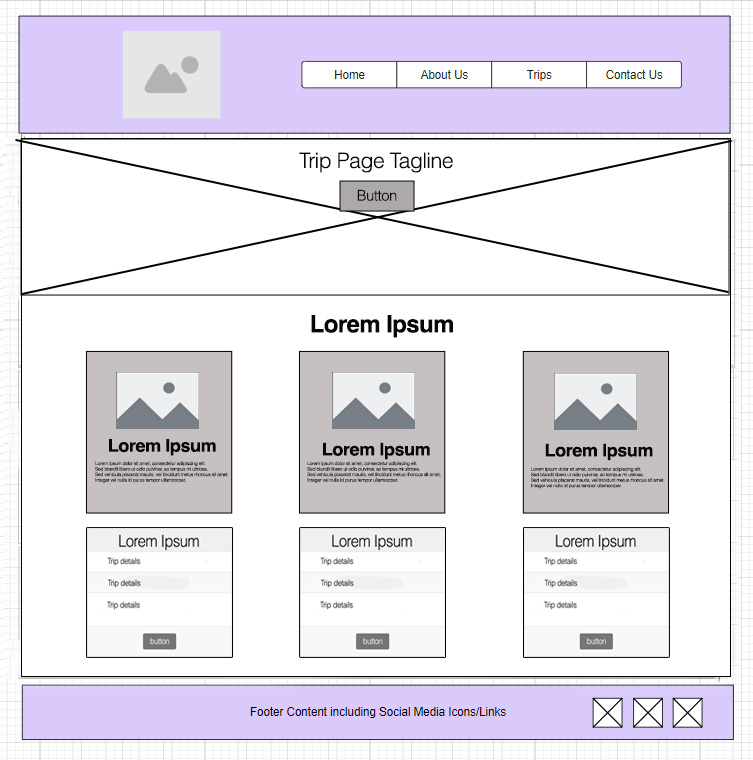
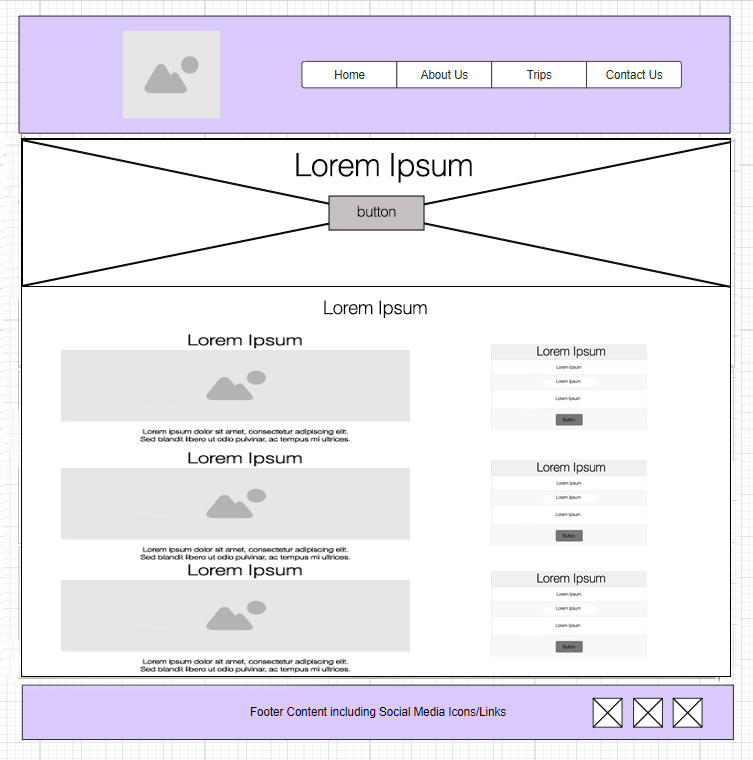
final rafting

diff --git a/wwr/trips.html b/wwr/trips.html
@@ -34,103 +34,95 @@
                 <h2> Ride the Rapids, Create Memories: Unleash Your Adventure Today!</h2>
                 <br>
                 <div class="row">
-                  <div class="column">
-                    <h2>Thrilling Rapids Expedition</h2>
-                    <p>Experience the adrenaline rush as you navigate through exhilarating rapids on our thrilling rafting expedition. Our expert guides will lead you on an adventure-packed journey down the river, where every twist and turn brings a new thrill. Take on the challenge of the rapids and immerse yourself in the excitement of white water rafting.</p>
+                  <div class="leftcolumn">
+                    <div class="card">
+                      <h2>Thrilling Rapids Expedition</h2>
+                      <div class="tripimg"><img src="images/trip_image1.jpeg" alt="Thrilling Rapids Rafting"></div>
+                      <p>Experience the adrenaline rush as you navigate through exhilarating rapids on our thrilling rafting expedition. Our expert guides will lead you on an adventure-packed journey down the river, where every twist and turn brings a new thrill. Take on the challenge of the rapids and immerse yourself in the excitement of white water rafting.</p>
+                    </div>
+                    <div class="card">
+                      <h2>Scenic Float Adventure</h2>
+                      <div class="tripimg"><img src="images/trip_image2.jpeg" alt="Scenic Float Adventure Rafting"></div>
+                      <p>For a more relaxed experience, join us on a scenic float adventure where you can soak in the beauty of the surrounding landscape. Drift down the gentle currents of the river while enjoying panoramic views of lush forests, towering cliffs, and cascading waterfalls. Perfect for nature lovers and families looking for a serene and memorable outing.</p>
+                    </div>
+                    <div class="card">
+                      <h2>Sunset Rafting Experience</h2>
+                      <div class="tripimg"><img src="images/trip_image3.png" alt="Sunset Rafting"></div>
+                      <p>Witness the magic of sunset on our sunset rafting experience, where the sky paints a breathtaking palette of colors as you glide down the river. As the sun dips below the horizon, marvel at the reflections on the water and soak in the tranquility of the evening. It's a truly unforgettable journey that combines adventure with natural beauty.</p>
+                    </div>
                   </div>
-                  <div class="column">
-                    <img src="images/trip_image1.jpeg" alt="Thrilling Rapids Rafting" >
-                  </div>
-                </div>
-                <div class="row">
-                  <div class="column-2">
-                    <img src="images/trip_image2.jpeg" alt="Scenic Float Adventure Rafting">
-                  </div>
-                  <div class="column-2">
-                    <h2>Scenic Float Adventure</h2>
-                    <p>For a more relaxed experience, join us on a scenic float adventure where you can soak in the beauty of the surrounding landscape. Drift down the gentle currents of the river while enjoying panoramic views of lush forests, towering cliffs, and cascading waterfalls. Perfect for nature lovers and families looking for a serene and memorable outing.</p>
-                  </div>
-                </div>
-                <div class="row">
-                  <div class="column">
-                    <h2>Sunset Rafting Experience</h2>
-                    <p>Witness the magic of sunset on our sunset rafting experience, where the sky paints a breathtaking palette of colors as you glide down the river. As the sun dips below the horizon, marvel at the reflections on the water and soak in the tranquility of the evening. It's a truly unforgettable journey that combines adventure with natural beauty.</p>
-                  </div>
-                  <div class="column">
-                    <img src="images/trip_image3.png" alt="Sunset Rafting" >
-                  </div>
-                </div>
-            </section>
-
-
-            <section class = trip-info>
-                <h2>Trips Information</h2>
-                <div class="trip-container">
-                    <table class="trip-table">
-                      <thead>
-                        <tr>
-                          <th>Thrilling Rapids Expedition</th>
-                        </tr>
-                      </thead>
-                      <tbody>
-                        <tr>
-                          <td>Duration: 15 km • 4 - 5 hours on the river</td>
-                        </tr>
-                        <tr>
-                            <td>Rates: $ 150 / person</td>
-                        </tr>
-                        <tr>
-                            <td>Age Restriction: 16 y/o minimum <br> Under 18 must be accompanied by a parent or legal guardian </td>
-                        </tr>
-                        <tr>
-                            <td><a href="contact.html" class = "contact-button" target="_blank"> Book Now</a></td>
-                        </tr>
-                      </tbody>
-                    </table>
-                  
-                    <table class="trip-table">
-                      <thead>
-                        <tr>
-                          <th>Scenic Float Adventure</th>
-                        </tr>
-                      </thead>
-                      <tbody>
-                        <tr>
-                          <td>Duration: 7 kms • 1 ½ - 2 hours on the river</td>
-                        </tr>
-                        <tr>
-                            <td>Rates: $ 100 / person</td>
-                        </tr>
-                        <tr>
-                            <td>Age Restriction: 12 y/o minimum<br> Under 18 must be accompanied by a parent or legal guardian</td>
-                        </tr>
-                        <tr>
-                            <td><a href="contact.html" class = "contact-button" target="_blank"> Book Now</a></td>
-                        </tr>
-                      </tbody>
-                    </table>
-                  
-                    <table class="trip-table">
-                      <thead>
-                        <tr>
-                          <th>Sunset Rafting Experience</th>
-                        </tr>
-                        <tbody>
+                  <div class="rightcolumn">
+                    <div class="card">
+                      <h2>Trips Information</h2>
+                      <table class="trip-table">
+                          <thead>
                             <tr>
-                              <td>Duration: 7 kms • 1 ½ - 2 hours on the river</td>
+                              <th>Thrilling Rapids Expedition</th>
+                            </tr>
+                          </thead>
+                          <tbody>
+                            <tr>
+                              <td>Duration: 15 km • 4 - 5 hours on the river</td>
                             </tr>
                             <tr>
-                                <td>Rates: $ 120 / person</td>
+                                <td>Rates: $ 150 / person</td>
                             </tr>
                             <tr>
-                                <td>Age Restriction: 12 y/o minimum <br>Under 18 must be accompanied by a parent or legal guardian</td>
+                                <td>Age Restriction: 16 y/o minimum <br> Under 18 must be accompanied by a parent or legal guardian </td>
                             </tr>
                             <tr>
                                 <td><a href="contact.html" class = "contact-button" target="_blank"> Book Now</a></td>
                             </tr>
                           </tbody>
-                    </table>
+                        </table>
+                    </div>
+                    <div class="card-2">
+                      <table class="trip-table">
+                        <thead>
+                          <tr>
+                            <th>Scenic Float Adventure</th>
+                          </tr>
+                        </thead>
+                        <tbody>
+                          <tr>
+                            <td>Duration: 7 kms • 1 ½ - 2 hours on the river</td>
+                          </tr>
+                          <tr>
+                              <td>Rates: $ 100 / person</td>
+                          </tr>
+                          <tr>
+                              <td>Age Restriction: 12 y/o minimum<br> Under 18 must be accompanied by a parent or legal guardian</td>
+                          </tr>
+                          <tr>
+                              <td><a href="contact.html" class = "contact-button" target="_blank"> Book Now</a></td>
+                          </tr>
+                        </tbody>
+                      </table>
+                    </div>
+                    <div class="card-3">
+                      <table class="trip-table">
+                        <thead>
+                          <tr>
+                            <th>Sunset Rafting Experience</th>
+                          </tr>
+                          <tbody>
+                              <tr>
+                                <td>Duration: 7 kms • 1 ½ - 2 hours on the river</td>
+                              </tr>
+                              <tr>
+                                  <td>Rates: $ 120 / person</td>
+                              </tr>
+                              <tr>
+                                  <td>Age Restriction: 12 y/o minimum <br>Under 18 must be accompanied by a parent or legal guardian</td>
+                              </tr>
+                              <tr>
+                                  <td><a href="contact.html" class = "contact-button" target="_blank"> Book Now</a></td>
+                              </tr>
+                            </tbody>
+                      </table>
+                    </div>
                   </div>
+                </div>
             </section>
         </main>
 

diff --git a/wwr/styles/rafting.css b/wwr/styles/rafting.css
@@ -413,10 +413,12 @@ justify-content: space-around;
 }
 
 .trip-table {
-width: 25%;
+width: 100%;
 border-collapse: collapse;
 margin-top: 100px;
 text-align: center;
+border-radius: 10px;
+box-shadow: 0 4px 8px rgba(0, 0, 0, 0.2);
 }
 thead{
     font-size: 20px;
@@ -448,40 +450,54 @@ background-color: #f9f9f9;
    
 }
 
-
-
-
-
-* {
-box-sizing: border-box;
+.leftcolumn {   
+float: left;
+width: 60%;
 }
 
-.row {
-display: flex;
+
+.rightcolumn {
+float: left;
+width: 35%;
+padding-left: 30px;
 }
 
-/* Create two equal columns that sits next to each other */
-.column {
-flex: 50%;
-padding: 30px;
+
+.tripimg {
 background-color: var(--primary-color);
-color: #fff
-}
-.column-2 {
-flex: 50%;
+width: 100%;
 padding: 20px;
-height: auto;
-background-color: white;
+height:auto;
 }
-.column img, .column-2 img{
+
+.tripimg img{
 width: 100%;
 height: auto;
-margin-right: 50px;
+margin: 0;
 border-radius: 10px;
 box-shadow: 0 4px 8px rgba(0, 0, 0, 0.2);
-margin-top: 20px;
-
 }
-.column h2 {
-color: #fff;
+
+.card {
+    background-color: white;
+    padding: 20px;
+    margin-top: 20px;
+}
+
+.card-2 {
+    background-color: white;
+    padding: 20px;
+    margin-top: 500px;
+}
+
+.card-3 {
+    background-color: white;
+    padding: 20px;
+    margin-top: 400px;
+}
+
+.row:after {
+content: "";
+display: table;
+clear: both;
 }
